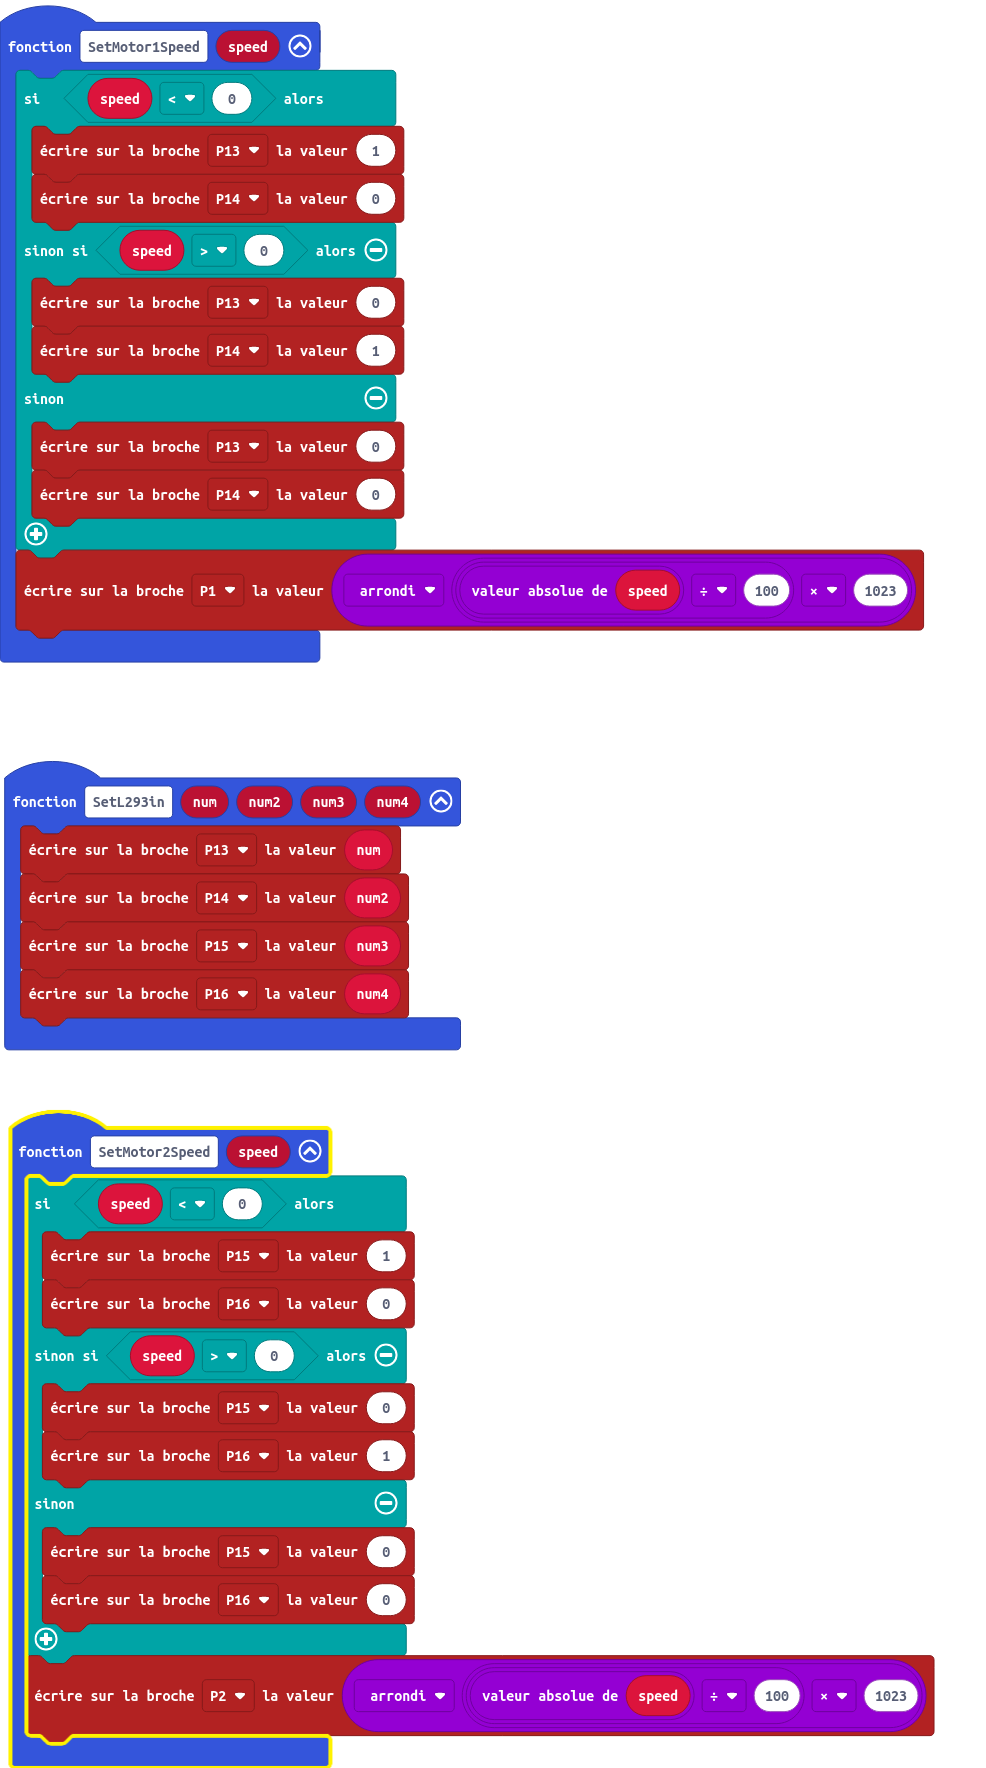
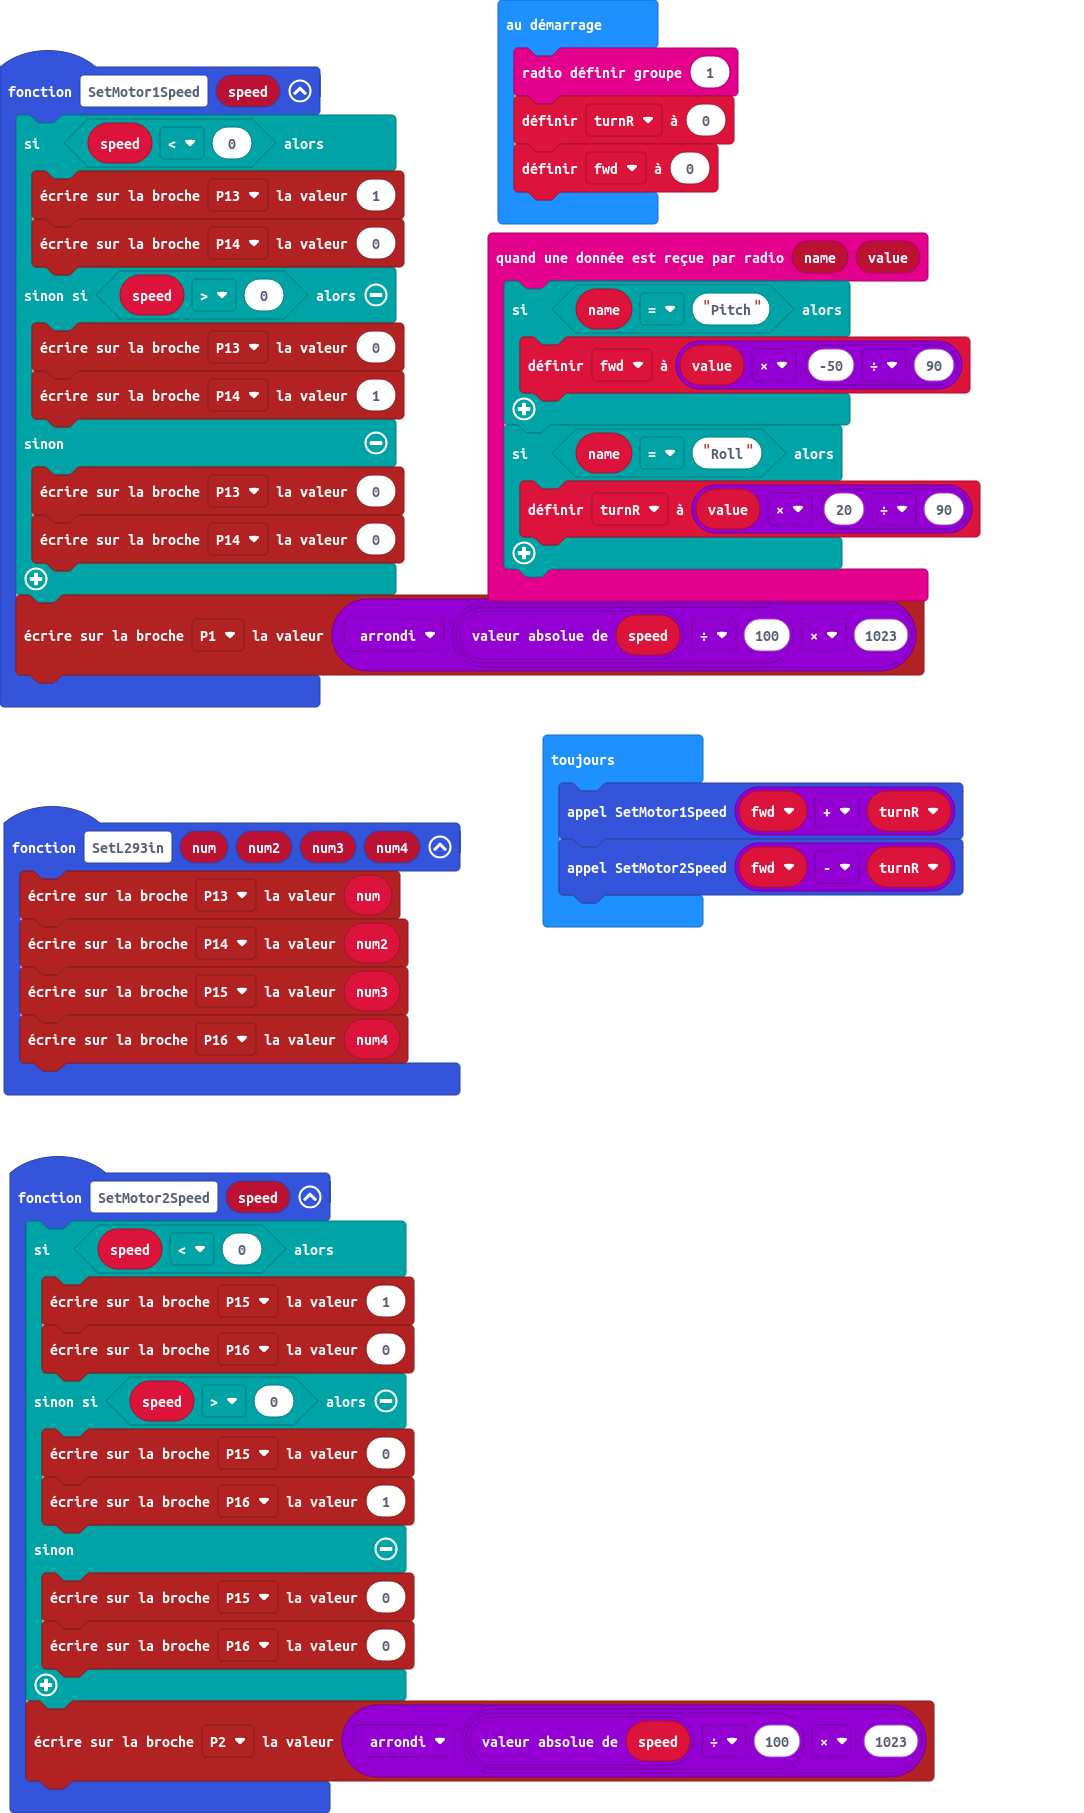
Mise à jour pxt.json, main.blocks, main.ts

diff --git a/main.ts b/main.ts
@@ -1,34 +1,49 @@
-namespace muBot {
-    export function SetL293in (num: number, num2: number, num3: number, num4: number) {
-        pins.digitalWritePin(DigitalPin.P13, num)
-        pins.digitalWritePin(DigitalPin.P14, num2)
-        pins.digitalWritePin(DigitalPin.P15, num3)
-        pins.digitalWritePin(DigitalPin.P16, num4)
-    }
-    export function SetMotor2Speed (speed: number) {
-        if (speed < 0) {
-            pins.digitalWritePin(DigitalPin.P15, 1)
-            pins.digitalWritePin(DigitalPin.P16, 0)
-        } else if (speed > 0) {
-            pins.digitalWritePin(DigitalPin.P15, 0)
-            pins.digitalWritePin(DigitalPin.P16, 1)
-        } else {
-            pins.digitalWritePin(DigitalPin.P15, 0)
-            pins.digitalWritePin(DigitalPin.P16, 0)
-        }
-        pins.analogWritePin(AnalogPin.P2, Math.round(Math.abs(speed) / 100 * 1023))
-    }
-    export function SetMotor1Speed (speed: number) {
-        if (speed < 0) {
-            pins.digitalWritePin(DigitalPin.P13, 1)
-            pins.digitalWritePin(DigitalPin.P14, 0)
-        } else if (speed > 0) {
-            pins.digitalWritePin(DigitalPin.P13, 0)
-            pins.digitalWritePin(DigitalPin.P14, 1)
-        } else {
-            pins.digitalWritePin(DigitalPin.P13, 0)
-            pins.digitalWritePin(DigitalPin.P14, 0)
-        }
-        pins.analogWritePin(AnalogPin.P1, Math.round(Math.abs(speed) / 100 * 1023))
-    }
+function SetL293in (num: number, num2: number, num3: number, num4: number) {
+    pins.digitalWritePin(DigitalPin.P13, num)
+    pins.digitalWritePin(DigitalPin.P14, num2)
+    pins.digitalWritePin(DigitalPin.P15, num3)
+    pins.digitalWritePin(DigitalPin.P16, num4)
 }
+function SetMotor2Speed (speed: number) {
+    if (speed < 0) {
+        pins.digitalWritePin(DigitalPin.P15, 1)
+        pins.digitalWritePin(DigitalPin.P16, 0)
+    } else if (speed > 0) {
+        pins.digitalWritePin(DigitalPin.P15, 0)
+        pins.digitalWritePin(DigitalPin.P16, 1)
+    } else {
+        pins.digitalWritePin(DigitalPin.P15, 0)
+        pins.digitalWritePin(DigitalPin.P16, 0)
+    }
+    pins.analogWritePin(AnalogPin.P2, Math.round(Math.abs(speed) / 100 * 1023))
+}
+function SetMotor1Speed (speed: number) {
+    if (speed < 0) {
+        pins.digitalWritePin(DigitalPin.P13, 1)
+        pins.digitalWritePin(DigitalPin.P14, 0)
+    } else if (speed > 0) {
+        pins.digitalWritePin(DigitalPin.P13, 0)
+        pins.digitalWritePin(DigitalPin.P14, 1)
+    } else {
+        pins.digitalWritePin(DigitalPin.P13, 0)
+        pins.digitalWritePin(DigitalPin.P14, 0)
+    }
+    pins.analogWritePin(AnalogPin.P1, Math.round(Math.abs(speed) / 100 * 1023))
+}
+radio.onReceivedValue(function (name, value) {
+    if (name == "Pitch") {
+        fwd = value * (-50 / 90)
+    }
+    if (name == "Roll") {
+        turnR = value * (20 / 90)
+    }
+})
+let fwd = 0
+let turnR = 0
+radio.setGroup(1)
+turnR = 0
+fwd = 0
+basic.forever(function () {
+    SetMotor1Speed(fwd + turnR)
+    SetMotor2Speed(fwd - turnR)
+})
